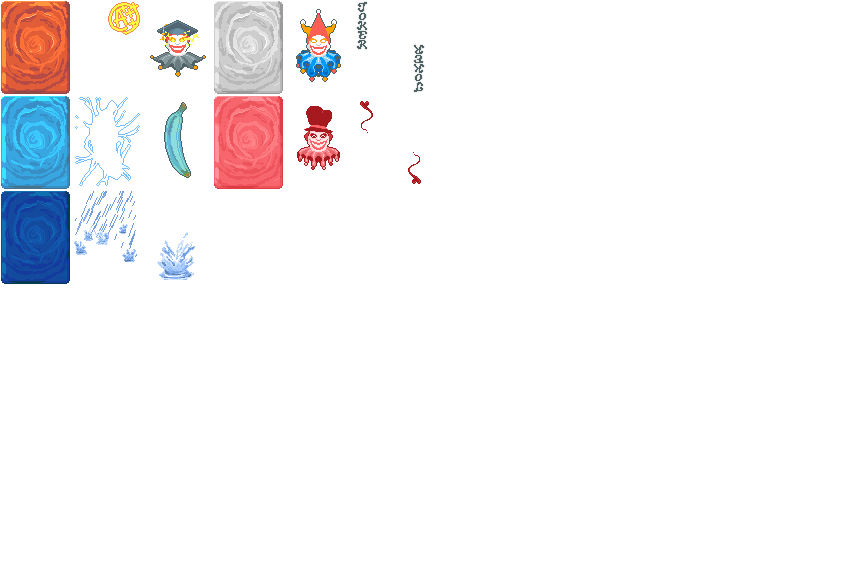
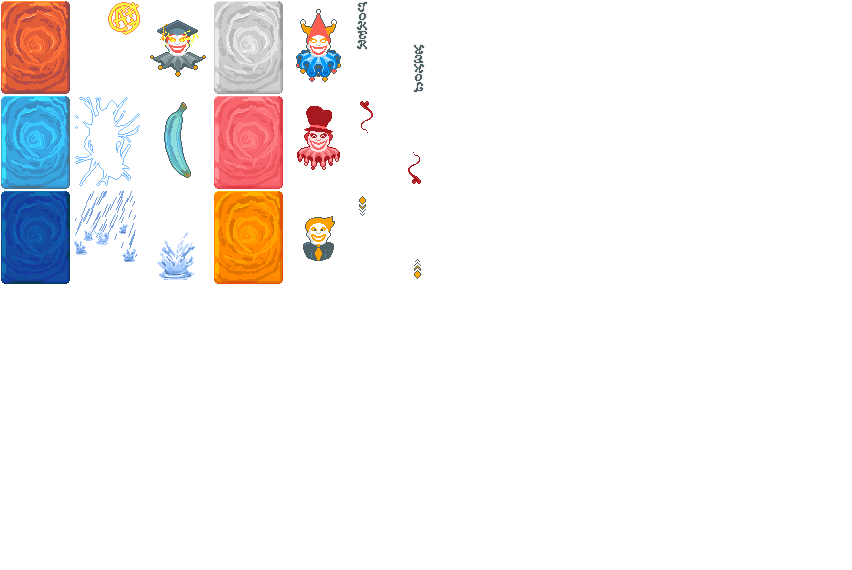
Engauded Joker + Attempts at bug fixes

Changed region(s): [[0.2441, 0.3281, 0.3967, 0.507]]

diff --git a/description.md b/description.md
@@ -1,5 +1,5 @@
 SuperFine!! is a 'Vanilla++' mod - aiming to add content that fits in with vanilla's balance, but stands out on its own.
 
-Currently, it adds 16 Jokers, 2 Spectral cards, 3 Boss Blinds, and one deck.
+Currently, it adds 18 Jokers, 2 Spectral cards, 3 Boss Blinds, an enhancement, and a new deck.
 
 Feel free to join the SuperFine!! thread in the Balatro Discord to discuss or learn more about the mod!
